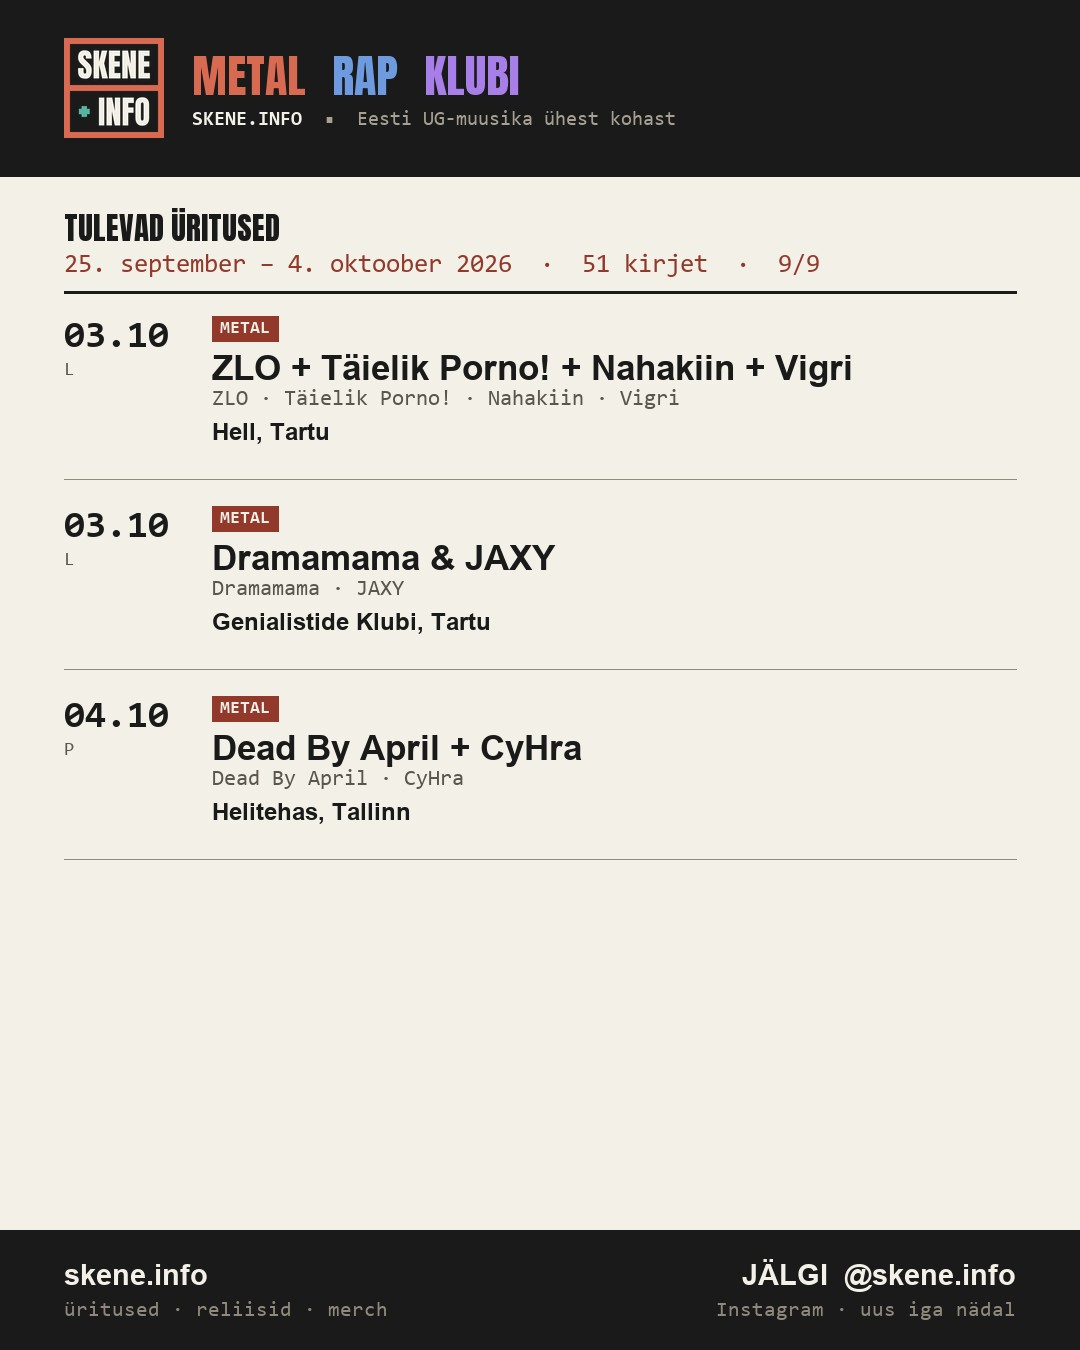
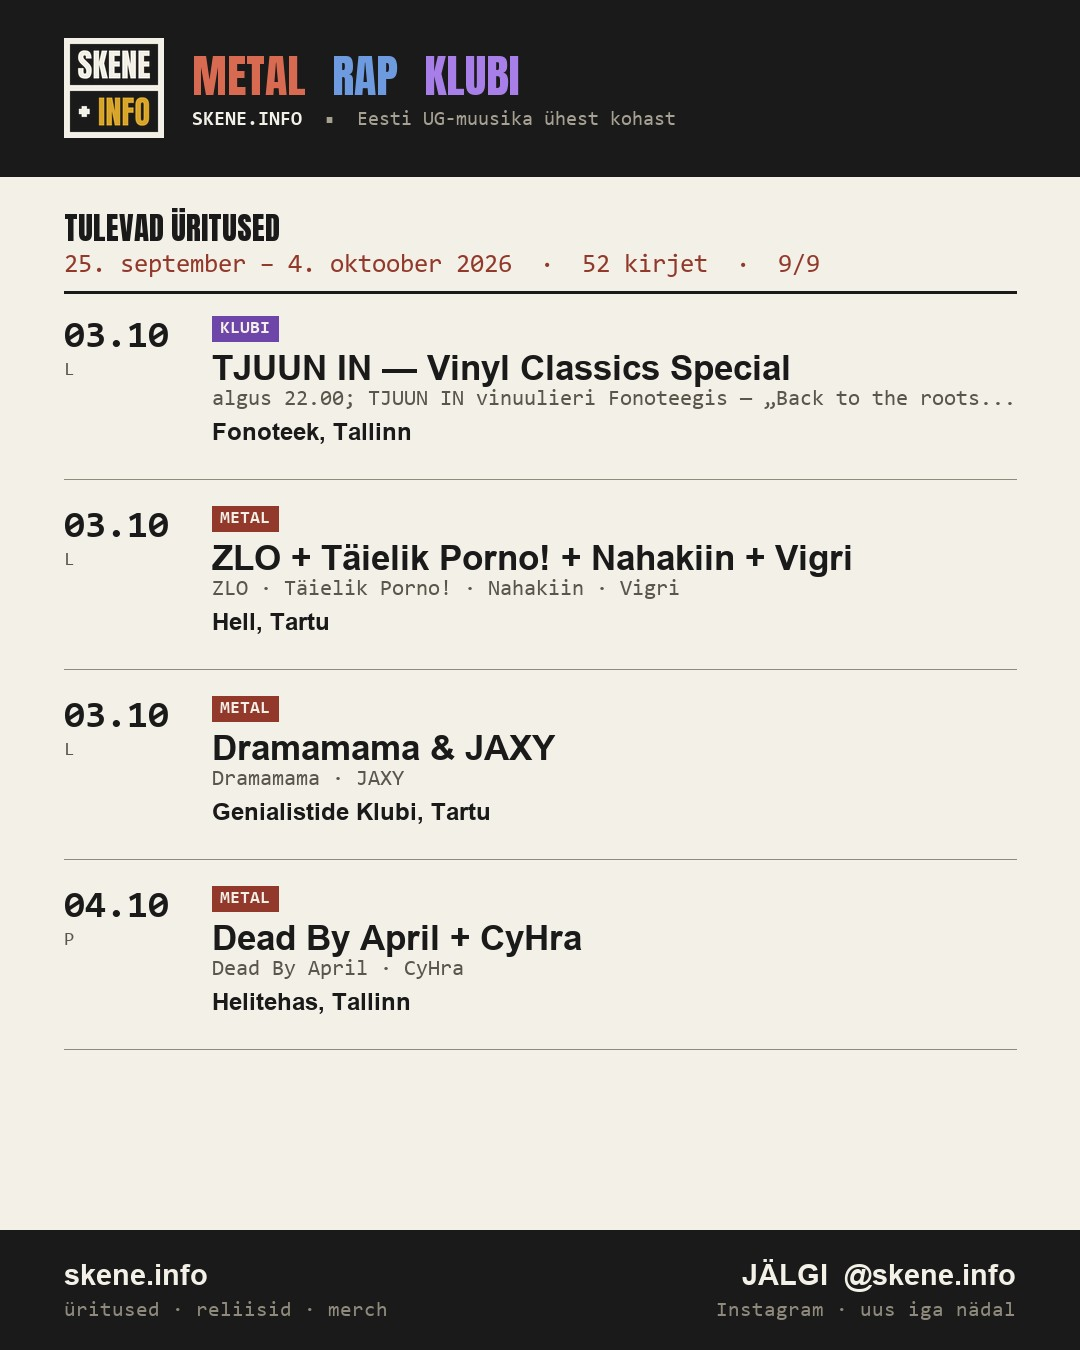
sweep 2026-09-25 järelejooks: +4 kirjet, 1 rikastus, UUS VALVE c-väljale
UUS VALVE scripts/check_dupes.py: kontrolli_c()
- c peab olema Tallinn|Tartu|mujal (Eesti) või Euroopa (AINULT www)
- c puudub ja t ei ole reliis/merch -> viga
- Euroopa rap/klubi poolel -> viga
Ilma selleta oleks hommikune 11 kirje parandus jäänud ühekordseks: vea-klass ise oli valveta ja oleks vaikselt korduma hakanud (kirje kaob nädalapildilt, captionist ja uudiskirjast ilma ühegi veateateta). Negatiivne test tehtud: c="Viljandi", puuduv c ja Euroopa rap-kirjel tabati kõik kolm; korrektsed kirjed ja reliisid läksid läbi.

UUED KIRJED
www: Aircraft (UA/DE) + Gentle Ropes 28.11 Fort bar (https://www.facebook.com/events/1625942459052921/ · pilet https://ra.co/events/2537589) — saidivalik on Silveri otsus, žanr RA ürituselehelt, mille kirjutas artist ise (New Wave / Post-Punk, "dream pop, shoegaze, synth-driven melancholy") · DND + Pettunud Kodanik 25.09 kl 20.00 Võru Kannel (https://www.facebook.com/events/1287892906446194/), teine allikas Võru Kandle enda FB-postitus.
klubi: Tartu Massive: Changing Faces (SK) 09.10 Klubi Gutenberg (https://www.facebook.com/events/1434611688578124/ · pilet https://www.ticketer.ee/tartumassive-changingfaces, 10 € early bird) — žanr korraldaja enda lehelt ("monthly drum & bass event").

RIKASTUS
The Rumjacks 25.09 Paavli: ürituse FB event (https://www.facebook.com/events/2384404665379203/) nimetab soojendajat Tabloited (Eesti punkrockbänd a-st 2016), keda kirjes ei olnud -> lisatud b-sse.

VÄLJA (žanr ürituse enda lehelt puudub, REEGLID §1)
[…]

diff --git a/scripts/check_dupes.py b/scripts/check_dupes.py
@@ -162,6 +162,41 @@ def leia_kadunud(sait, kaust):
     return kummitused
 
 
+# --- c-valja kontroll (lisatud 25.09.2026) -----------------------------------
+# MIKS: 25.09 sweepil selgus, et VIIEL Eesti kirjel oli `c` valjal LINNA NIMI
+# ("Viljandi", "Torva", "Parnu") ja mitte amber. `common.EESTI` on
+# {"Tallinn","Tartu","mujal"}, seega `in_scope()` tagastas False ja need kirjed
+# kukkusid VAIKSELT nadalapildilt, IG-captionist JA uudiskirjast valja -- ilma
+# uhegi veateateta. Uks neist (Uranus + As-Sur + Joy Palace 26.09 Konservatoorium,
+# Viljandi) oli lisatud 18.09 sweepiga ja puudus 18.09 postitusest taielikult.
+# Vastassuunas sama viga: 6 valisfestivali olid `c: "mujal"` ja oleksid Eesti
+# kirjetena filtrist labi lainud (sama muster nagu Reeperbahn/Mystic 18.09).
+# Oige muster: c = Tallinn | Tartu | mujal (Eesti); c = Euroopa (ainult www,
+# valismaa); TAPNE LINN laheb `linn`-valjale, MITTE `c`-le.
+C_EESTI = {"Tallinn", "Tartu", "mujal"}
+C_LUBATUD = {"www": C_EESTI | {"Euroopa"}, "rap": C_EESTI, "klubi": C_EESTI}
+
+
+def kontrolli_c(sait, kaust):
+    """Tagastab vigade nimekirja manual.json-i `c`-valja kohta."""
+    vead = []
+    lubatud = C_LUBATUD[sait]
+    for e in load(kaust / "manual.json"):
+        c = e.get("c")
+        reliis = e.get("t") in ("reliis", "merch")
+        if not c:
+            if not reliis:
+                vead.append((e, "c PUUDUB (uritusel peab olema)"))
+            continue
+        if c not in lubatud:
+            if c in ("Euroopa",):
+                vead.append((e, f"c={c!r} -- {sait} on AINULT Eesti"))
+            else:
+                vead.append((e, f"c={c!r} ei ole amber -- tapne linn kuulub `linn`-valjale, "
+                                f"c peab olema mujal/Tallinn/Tartu"))
+    return vead
+
+
 def main():
     vigu = 0
     lubatud = laadi_lubatud()
@@ -183,6 +218,13 @@ def main():
                 print(f"       B: {kirjeldus(b)}")
         else:
             print("  duplikaate ei leitud")
+
+        c_vead = kontrolli_c(sait, kaust)
+        if c_vead:
+            vigu += len(c_vead)
+            print(f"  C-VALJA VIGU (kirje kaob VAIKSELT nadalapildilt/captionist/uudiskirjast): {len(c_vead)}")
+            for e, pohjus in c_vead:
+                print(f"   - {e.get('d','?')} {e.get('n','?')[:55]!r}: {pohjus}")
 
         kumm = leia_kadunud(sait, kaust)
         if kumm:
